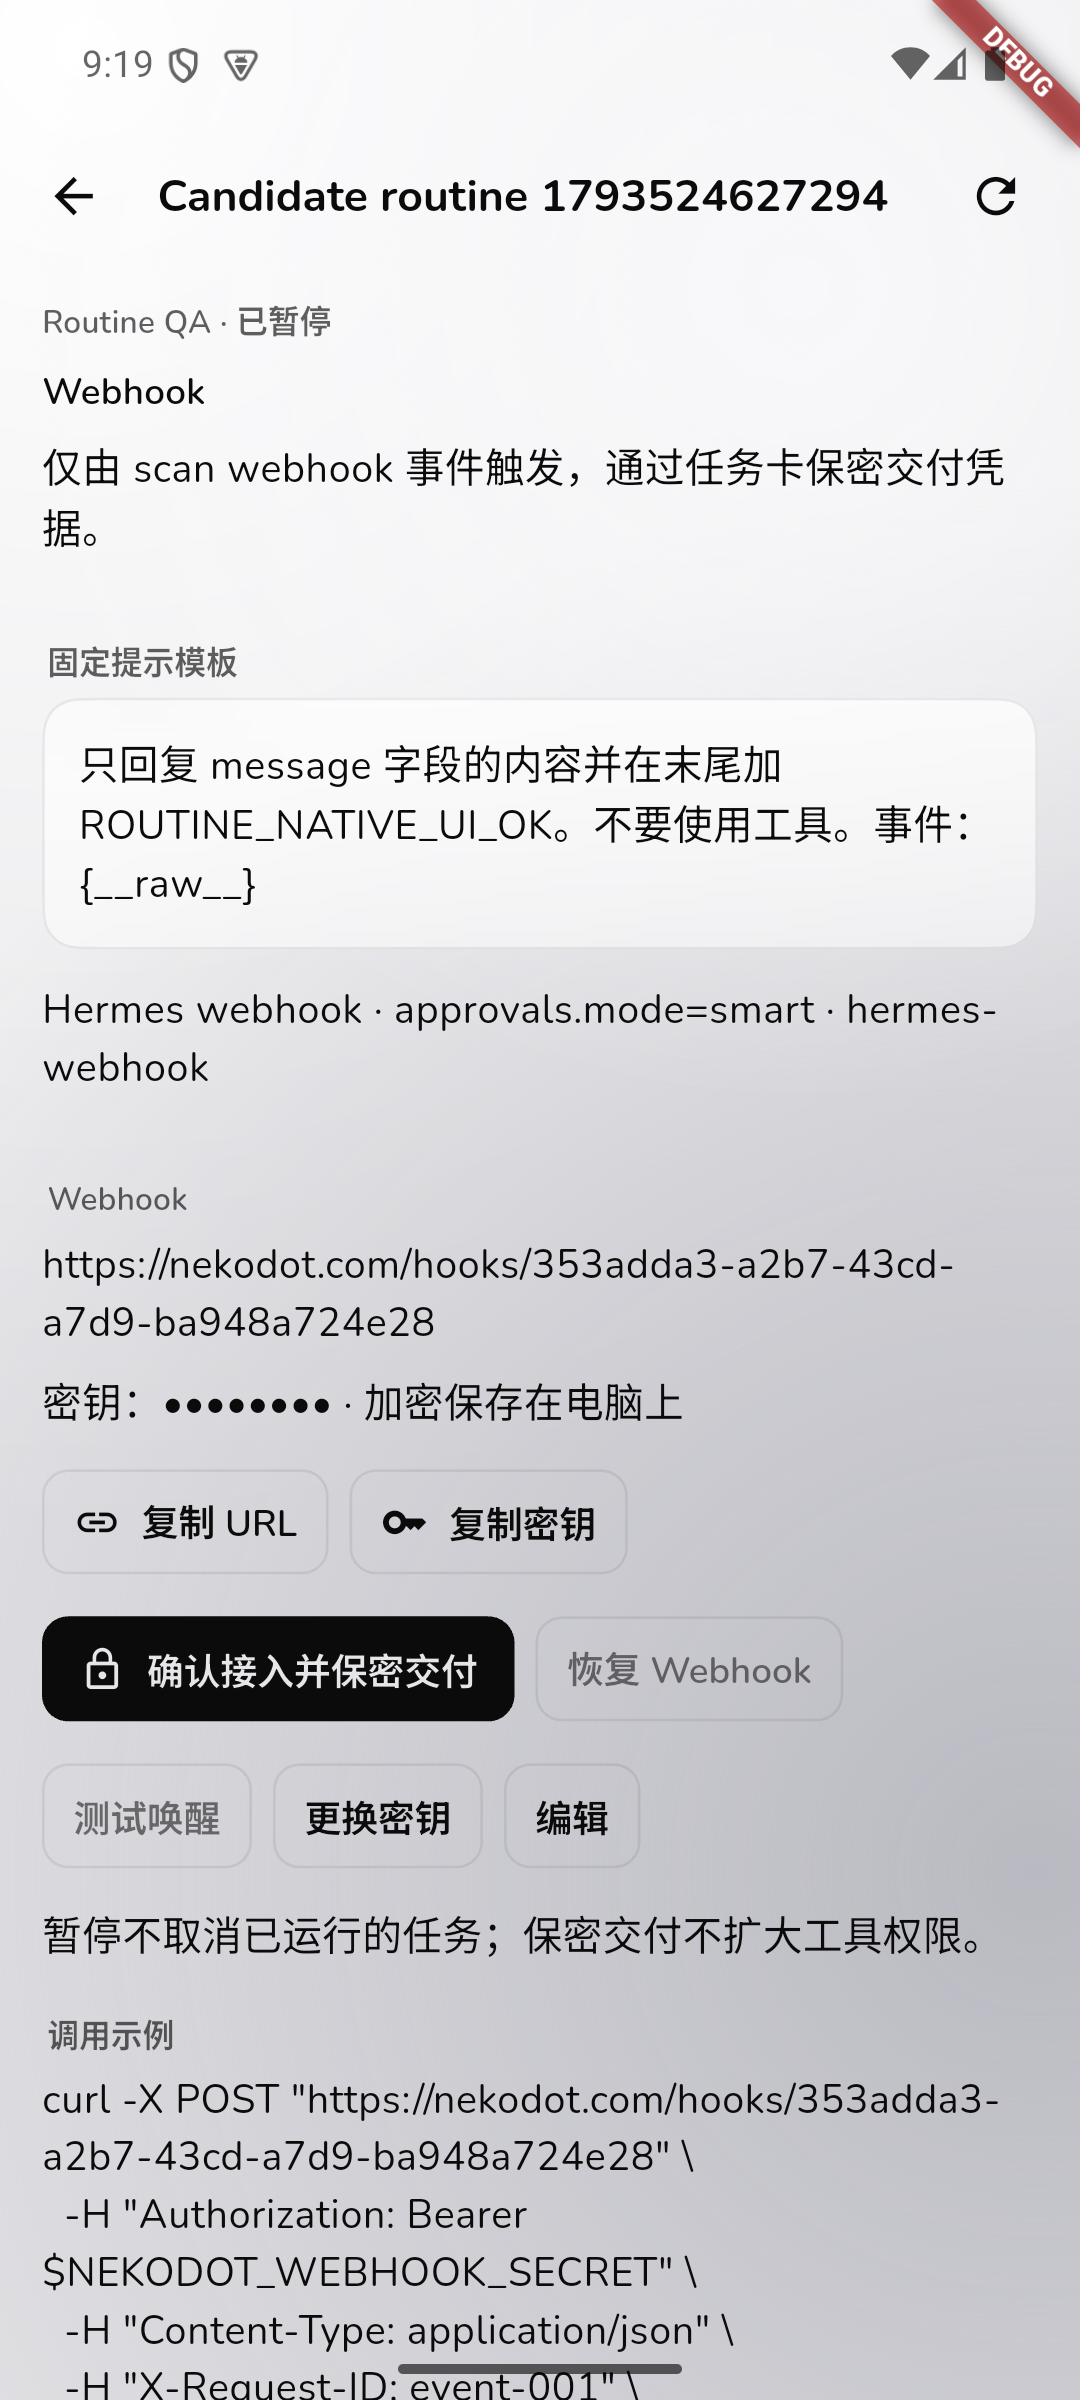
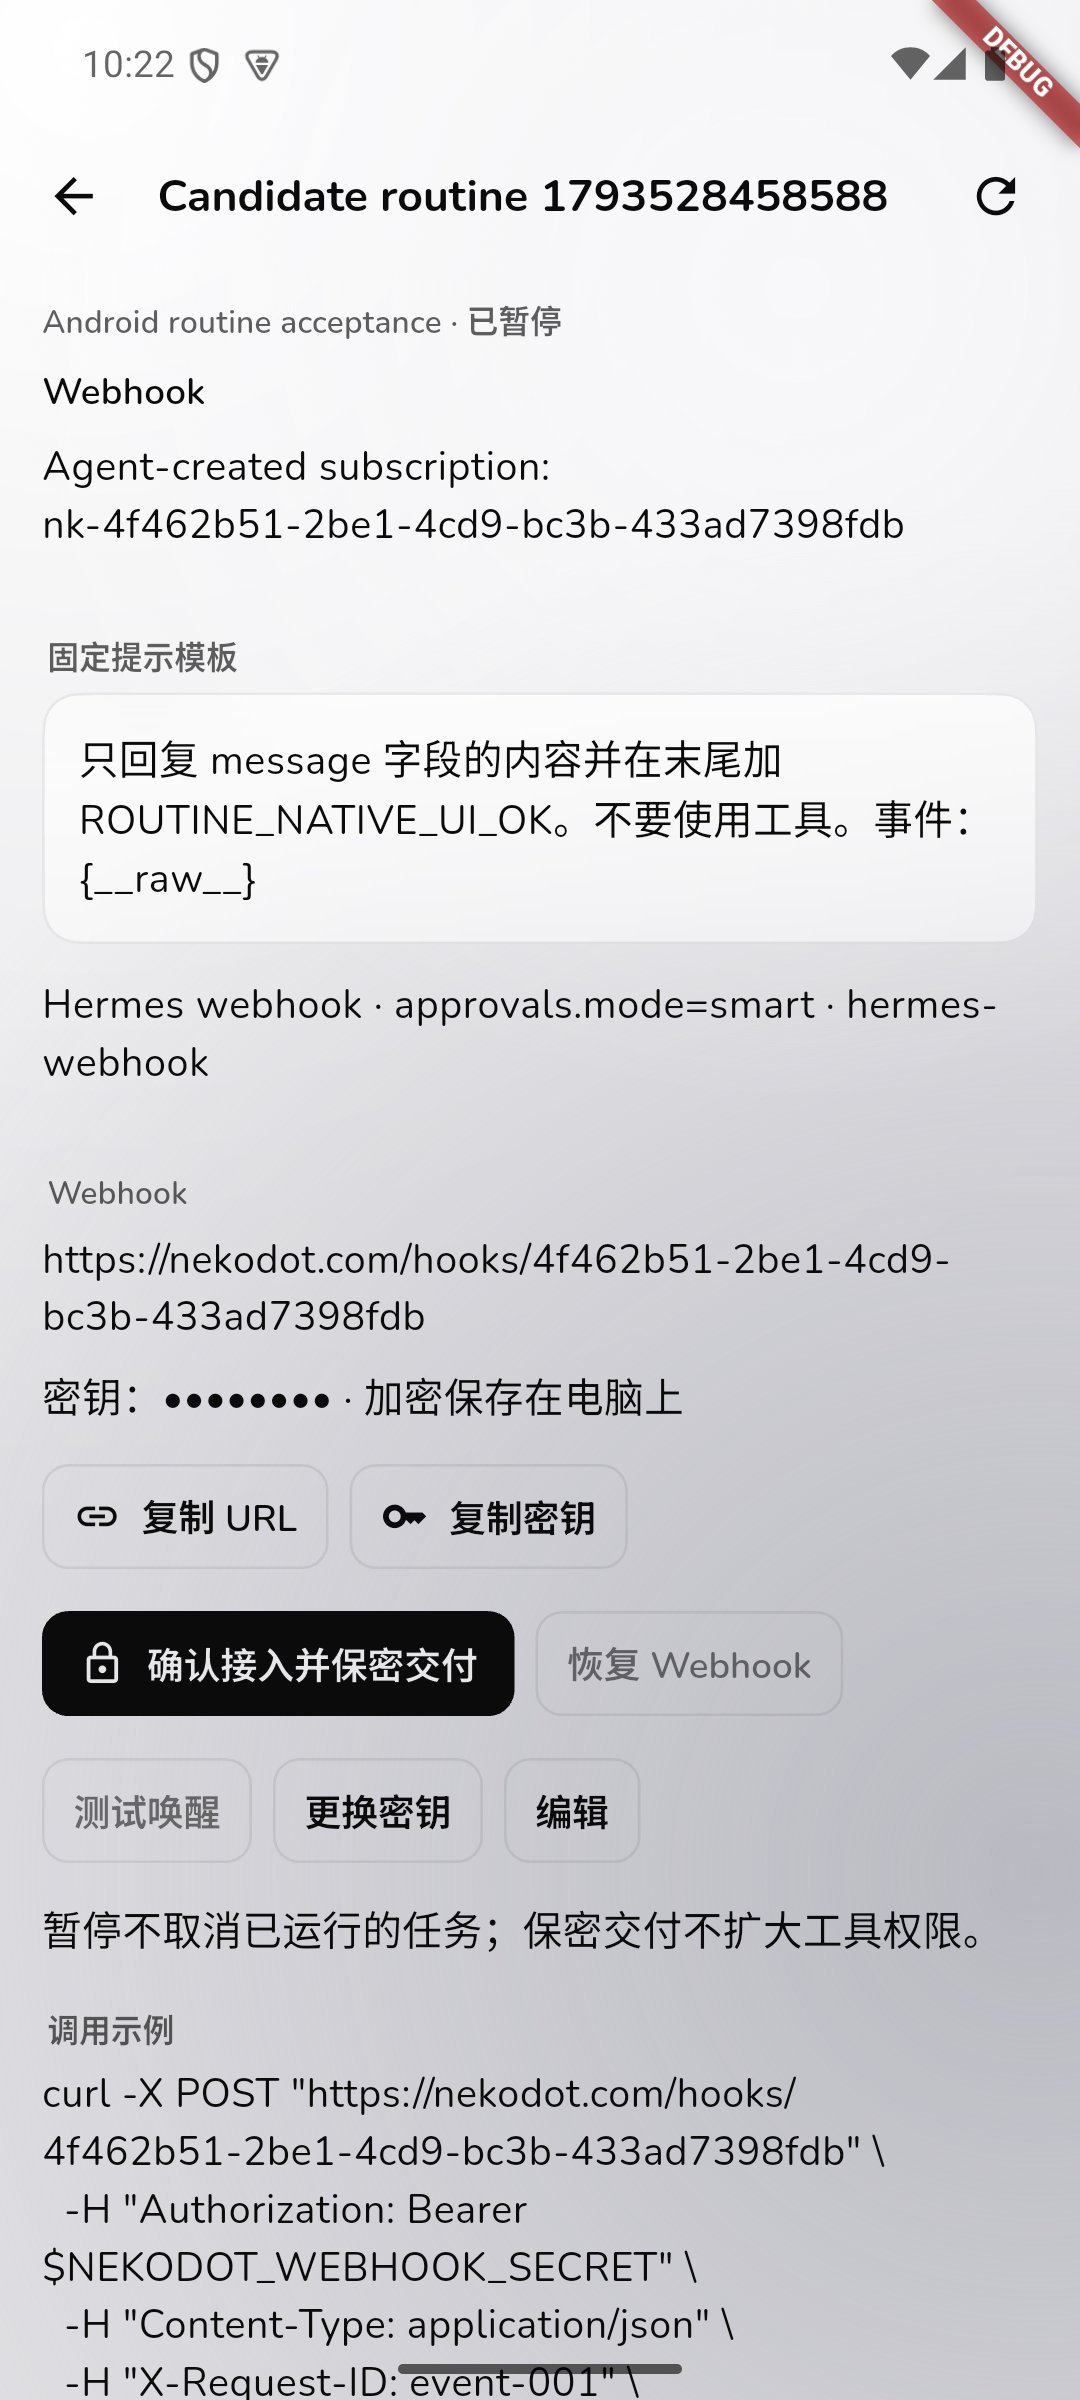
docs: record real webhook routine acceptance and candidate builds

diff --git a/docs/side-phase4-routines-acceptance.md b/docs/side-phase4-routines-acceptance.md
@@ -1,6 +1,8 @@
 # Side Phase 4 — Webhook 例行任务
 
-状态：候选实现与隔离真实验收进行中；未部署产品、未发布、未 push。
+状态：Node、Relay、Flutter 候选实现、隔离真实验收及双端候选打包已完成。Android 真机、真实系统通知及完整新页面视觉矩阵仍待验收。未替换产品服务、未发布、未 push。
+
+最终代码基线为 `866ee2de56ebf11d41e075bba37500ceccf04707`，使用不共享依赖的独立检出执行工程检查、原生旅程及构建。脱敏汇总见 [真实验收证据](evidence/side-phase4-routines-real.json)。
 
 ## 原生任务与接入
 
@@ -25,23 +27,68 @@
 
 ## 当前真实证据
 
-| 旅程                                | 结果                                                                                                                |
-| ----------------------------------- | ------------------------------------------------------------------------------------------------------------------- |
-| 真实聊天经 skill/CLI 创建纯 webhook | 通过；真实任务卡、默认禁用                                                                                          |
-| 公网跨 profile 接收及真实模型结果   | 修复前 503；隔离原生修复后 202，原生 session 完成并回到私聊                                                         |
-| Windows 候选 App                    | 完整旅程通过：建任务、详情、复制、保密交付、公网测试、完成结果、暂停 403、轮换后旧钥 401                            |
-| 原生重复 delivery ID                | 相同事件返回 200 `duplicate`，没有增加执行                                                                          |
-| 非选定事件                          | 原生返回 200 `ignored`，未冒充执行完成                                                                              |
-| 错误密钥、另一账号管理入口          | 公网 401；跨账号 get/credentials/grant/test 全部 forbidden                                                          |
-| 组合任务                            | 同一个原生 cron 的公网 direct 与定时 builtin 执行均真实完成，session 独立、结果一致；验收后暂停定时部分并保留历史   |
-| 模型初始化失败                      | 202 接收后原生 terminal/failed；旧 hook 方案漏报，改为原生持久记录后补回原失败结果，未重新执行；归档 Bot 后入口 403 |
-| Android                             | 候选模拟器真实旅程进行中；没有真机通过结论                                                                          |
+| 旅程                                | 结果                                                                                                                                   |
+| ----------------------------------- | -------------------------------------------------------------------------------------------------------------------------------------- |
+| 真实聊天经 skill/CLI 创建纯 webhook | 通过；真实任务卡、默认禁用                                                                                                             |
+| 公网跨 profile 接收及真实模型结果   | 修复前 503；隔离原生修复后 202，原生 session 完成并回到私聊                                                                            |
+| Windows 候选 App                    | 最终提交的原生集成旅程通过（1 分 33 秒）：建任务、详情、复制、保密交付、公网测试、真实模型完成结果、暂停 403、轮换后旧钥 401及返回聊天 |
+| 原生重复 delivery ID                | 相同事件返回 200 `duplicate`，没有增加执行                                                                                             |
+| 非选定事件                          | 原生返回 200 `ignored`，未冒充执行完成                                                                                                 |
+| 错误密钥、另一账号管理入口          | 公网 401；跨账号 get/credentials/grant/test 全部 forbidden                                                                             |
+| 组合任务                            | 同一个原生 cron 的公网 direct 与定时 builtin 执行均真实完成，session 独立、结果一致；验收后暂停定时部分并保留历史                      |
+| 模型初始化失败                      | 202 接收后原生 terminal/failed；旧 hook 方案漏报，改为原生持久记录后补回原失败结果，未重新执行；归档 Bot 后入口 403                    |
+| Agent helper                        | 真实 Agent 创建并执行 shell 脚本；只用任务引用，公网 202 后原生模型完成；脚本不包含外部密钥                                            |
+| 私聊运行时触发                      | 私聊实际执行等待工具时，独立后台任务完成；前台 runId 不变、工具正常完成，没有 steer 或重跑                                             |
+| 后续追问                            | 原私聊读取后台结果和原生 session 引用；执行数不增加                                                                                    |
+| 原生权限                            | 纯 webhook 无 terminal，真实返回不可用；组合任务实际调用 execute_code，被原生 cron deny 拒绝，工具记录和私聊结果一致                   |
+| 暂停正在执行的任务                  | 先接收 202，再暂停入口：后续请求 403，已接受的原执行仍完成，不暗中取消                                                                 |
+| 离线与服务恢复                      | Node 离线公网 503；仅重启隔离 Relay、Node 后原 session 和历史保留，无重复结果；旧 delivery ID 仍是 duplicate                           |
+| Android                             | 最终提交的模拟器原生旅程通过（3 分 34 秒），覆盖相同真实模型/公网流程、复制、保密交付、暂停、轮换及修正后的滚动几何；无真机结论        |
 
-Windows 原生 UI 测试早期因 offscreen finder、未等待按钮恢复及 Android 截图重复转换失败，分别修正验收脚本；没有将这些失败记录为整条旅程通过。
+权限验收不是模型口头声称被拒绝：只读核对原生 session 的 tool 消息，实际工具为 `execute_code`，原生结果包含 `BLOCKED: execute_code`。该回合随后正常报告拒绝，所以原生执行状态是 completed，而不是伪造 failed。
 
-## 工程检查及未完成项
+密钥检查覆盖 Node 数据库、私有模型日志、各验收 profile 的 state.db 及 helper 脚本；最终检查 7 个文件、21 个当前凭据，没有明文命中。这是上述实际文件范围的检查结果，不代表所有历史备份均已检查。Relay 不保存 webhook 正文，完整密钥不放入聊天、脚本或报告。
 
-- 当前 lint、typecheck、29 文件 / 44 项服务端测试、Node/Relay/Web/distribution build 通过；Flutter analyze 无问题。
-- 仍需完成：实际定时与 webhook 双触发、Agent helper 脚本、运行中独立任务、原生模型失败及权限、服务重启/离线、Android 候选与双端 release、独立检出与回归。
-- 临时公网 `/hooks/` 指向独立 QA Relay。验收结束撤回本轮路由，不覆盖并发 Caddy 改动；保留 QA 数据、日志与 profiles，不重启其他产品或整机。
-- 原始响应、凭据和私有配置只保留在隔离现场，不进入 Git。既有 UI 改动及截图不纳入本模块提交。
+### 实拍与失败记录
+
+- Android 实拍发现任务详情长记录会滚入透明顶栏；仅新任务详情和设置页固定滚动边界，其他页面保持现有改版。原生旅程增加实际视口几何断言，不靠代码截图推断。
+- 早期 UI harness 的 offscreen finder、未等待按钮及错误的背景包装分别修正；未将失败轮次写成通过。双端 UI 旅程最终串行运行，避免共享系统剪贴板的相互干扰。
+- 最终复测前另两次请求因验收脚本未等待异步复制完成而使用了旧剪贴板，返回 401；已改为等待复制完成提示并核对目标 URL 与密钥，再验证暂停 403、轮换旧钥 401。未放宽产品凭据校验，也未将错误请求计作成功。
+- 独立检出最初在构建时磁盘不足，保留原现场后换到另一磁盘的新检出，不清理用户文件。新的 Android 构建遇到 Kotlin 增量缓存错误，单次构建禁用该缓存后继续；补入私有 Firebase 配置，未修改全局 shell。
+- Edge 一轮在长旅程 90 秒总时限处失败，另一轮在测试端口处报 `fetch: bad port`；独立重跑完整套件最终 7 通过、1 跳过，未修改产品连接逻辑来掩盖失败。跳过项是需要独立真实屏幕配置的旧屏幕旅程，不是本次 webhook 真实验收。
+
+### 原生候选截图
+
+以下为实际运行的候选客户端实拍，不是 HTML 手机尺寸截图或模型回放。Android 来自模拟器，截图保留测试构建标识；不据此宣称真机或完整视觉矩阵通过。
+
+| Android 任务详情                                                      | Android 原生执行记录                                                    |
+| --------------------------------------------------------------------- | ----------------------------------------------------------------------- |
+| ![Android 任务详情](evidence/side-phase4-android-routine-details.png) | ![Android 执行完成](evidence/side-phase4-android-routine-completed.png) |
+
+| Windows 接收回执                                                      | Windows 执行完成                                                        |
+| --------------------------------------------------------------------- | ----------------------------------------------------------------------- |
+| ![Windows 接收回执](evidence/side-phase4-windows-routine-receipt.png) | ![Windows 执行完成](evidence/side-phase4-windows-routine-completed.png) |
+
+[Android 聊天中的任务卡、保密卡与真实后台结果](evidence/side-phase4-android-routine-chat-result.png)。
+
+## 工程检查及交付边界
+
+- 独立检出执行 frozen install、lint、typecheck、29 文件 / 44 项服务端测试及 Node/Relay/Web/distribution build。Flutter frozen pub get、analyze、14 项测试通过；主工作区 15 项包含用户另行修改的指令栏测试，不能混作提交基线。
+- Windows release 安装器与 Android arm64 release 构建通过。Windows 安装器没有 Authenticode 发布签名；Android APK 经官方 apksigner 验证 v2 签名有效、1 个签名者，沿用原有私有签名和 `app.nekodot.client` 标识。版本仍为 `0.2.0+5`，不是新发布版本。本轮仅交付本地候选，不自动发布、上传或 push。
+- 原生修复只装在 QA Hermes。产品使用本功能前仍需单独安排并授权 Node/Relay 与原生修复部署，不能把隔离成功写成产品已经上线。
+- Android 真机、真实系统通知/FCM、本次任务页的完整中英/浅深色/旋转矩阵尚未全部完成；模拟器和现有 Web 回归不能替代这些结果。
+- 临时公网 `/hooks/` QA 路由已撤回，仅移除本轮覆盖项并恢复原产品路由。Caddy 配置校验成功，只 reload，未 restart；官网及产品 health 均为 200，原 QA hook 为 404。对照检查的其他容器启动时间不变。QA 数据、日志、profiles、路由备份及构建失败现场全部保留，未重启其他产品或整机。
+- 原始响应、凭据和私有配置只保留在隔离现场，不进入 Git。用户既有指令栏、其他 UI 及历史截图改动不纳入本模块提交。
+
+### 本地候选构建产物
+
+- Windows x64 EXE：独立检出的 `dist/native/nekodot_0.2.0_x64-setup.exe`（15,730,535 字节，未做 Authenticode 发布签名）。
+- Android arm64 APK：独立检出的 `dist/native/nekodot_0.2.0+5_android-arm64.apk`（34,251,804 字节，原有 release 签名）。
+- 这些是独立检出生成的候选包；未覆盖现有公开安装包，也没有以 QA 路由替代产品环境。实际产品启用须另行安排服务端和获授权的原生修复部署。
+
+### 候选使用流程
+
+1. 聊天让 Bot 创建 webhook 例行任务；出现真实任务卡后打开详情。
+2. 复制 URL，确认接入并保密交付。Bot 获得任务引用，不会取得明文密钥。
+3. Bot 的脚本使用 `hermes routine send ID --request-id EVENT_ID --payload '{"event_type":"scan","message":"hello"}'`；外部自有服务从详情复制密钥并自行配置 Bearer。
+4. HTTP 接收回执与执行完成分开查看。结果回到对应 Bot 私聊，可打开原生执行详情；后续追问不会重跑原事件。

diff --git a/docs/progress.md b/docs/progress.md
@@ -750,3 +750,13 @@ HTML 九块已静态解析，完整原件保留。查看通道拒绝原稿执行
 
 - 不再以固定 pump 时间猜测复制完成：等待 URL/密钥的实际完成提示，再比对目标任务和剪贴板内容；只输出布尔结论，不在失败日志展开密钥。
 - 因错误剪贴板产生的 401 轮次不记为暂停验证通过；最终双端串行复测，继续保持暂停必须 403、轮换后旧钥必须 401 的真实断言。
+
+## 2026-11-01 / Side Phase 4：最终真实验收和本地候选
+
+- 独立检出基线 `866ee2de56` 的 Windows 原生旅程1分33秒、Android模拟器旅程3分34秒均通过；使用真实模型和公网入口，覆盖创建、保密交付、复制、结果、暂停403、轮换旧钥401及返回。Android详情/执行实拍已更新，未混作真机验收。
+- 同一原生cron的定时与事件执行、真实helper脚本、私聊工具运行期间的后台任务、后续追问、原生拒绝、失败、离线503及独立服务重启恢复均有实际证据。权限拒绝核对原生execute_code工具记录；没有新增执行/重试引擎。
+- 最终检查7个实际文件、21个当前凭据无明文命中；脱敏汇总不含密钥、endpoint及原始私有日志。
+- 全新检出frozen install、lint/typecheck、29文件44服务端测试、服务构建、Flutter frozen pub get/analyze/14测试通过。Edge最终7通过1跳过，跳过项为未配置的旧真实屏幕旅程；此前超时、bad port、复制未完成和构建失败均保留记录。
+- Windows EXE与Android arm64 APK构建通过；APK官方签名校验通过，EXE未做Authenticode签名；沿用0.2.0+5，仅本地候选，不发布或push。
+- 公网QA路由已撤回，Caddy校验并reload，官网/产品health200、原QA hook404，其他容器启动时间不变。仅隔离Hermes使用最小修复，产品服务和原数据未替换，隔离现场全部保留。
+- Android真机、真实通知/FCM及新页面完整视觉矩阵仍待完成；后续部署须单独安排。报告见 `docs/side-phase4-routines-acceptance.md`，证据见 `docs/evidence/side-phase4-routines-real.json`。

diff --git a/Summary.md b/Summary.md
@@ -601,3 +601,11 @@ Node 以官方 CLI/API 管理 Hermes，并保存业务状态。原生 App 当前
 
 - 真实复测暴露验收脚本在异步凭据复制完成前读取剪贴板，导致后续请求拿到旧内容；改为等待原生页面复制完成提示，并核对复制 URL 所属任务及密钥一致性，失败信息不打印明文密钥。
 - 双端旅程串行运行，避免 Android 模拟器和 Windows 共享系统剪贴板干扰；产品凭据接口和权限逻辑没有放宽。
+
+## 2026-11-01 / Side Phase 4：最终隔离验收与候选交付
+
+- 最终代码基线 `866ee2de56` 在独立检出完成 Windows 和 Android 模拟器原生旅程，均使用真实 Node/Hermes、真实模型和公网 HTTPS，覆盖建任务、保密交付、复制、执行结果、暂停及轮换；不是回放通过。
+- 真实补验包括同一 cron 的定时/事件触发、helper 引用调用、前台工具执行时的独立后台任务、追问不重跑、原生权限拒绝、失败及离线/服务重启恢复。原生 execute_code 拒绝已核对实际 tool 记录。
+- frozen install、lint、typecheck、29文件44服务端测试、服务构建及 Flutter analyze/14测试通过；Edge 7通过1屏幕配置缺失跳过。双端 release 构建完成，APK原有签名有效，EXE未做发布签名；版本仍为0.2.0+5。
+- 临时公网QA路由已撤回，官网/产品health为200、原QA hook为404；只reload Caddy，其他服务启动时间不变。保留隔离数据、profiles、日志与失败现场。原生最小修复仅在QA，产品未部署、未发布、未push。
+- Android真机、真实通知/FCM和新页面完整视觉矩阵仍待验收。详细结果、实际截图、脱敏证据及候选包位置见 `docs/side-phase4-routines-acceptance.md`。
